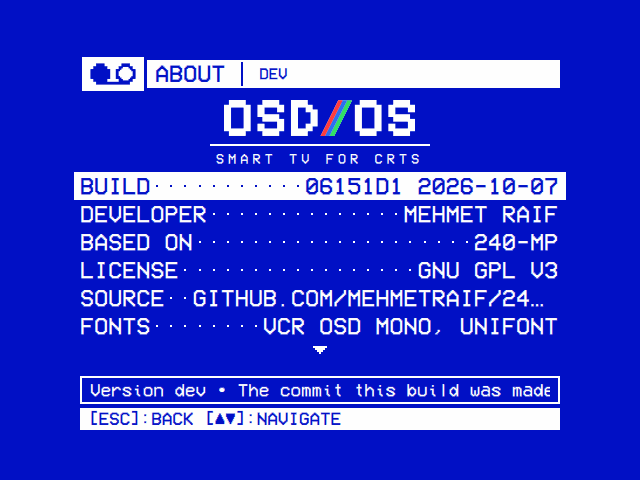
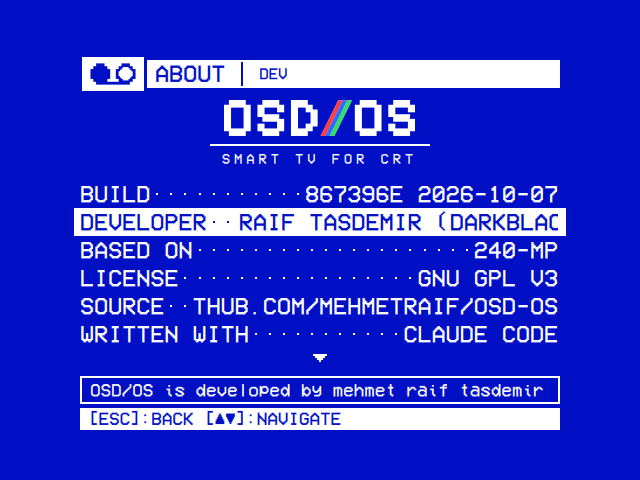
feat: About credits everyone OSD/OS is made with, and its long lines scroll
The owner asked to give everyone their due: the developer's name as the
owner writes it, mehmet raif tasdemir (darkBLACK), that OSD/OS's code is written
with Claude Code and its logo with ChatGPT, and lines that don't fit to
scroll.

- About: Developer is mehmet raif tasdemir (darkBLACK), in the licence's
  notice too. New lines: Written With (Claude Code, as much of 240-MP's
  code was), Artwork (the logo, the channel logo and the boot screen's
  cassette, made with ChatGPT), Image OS (Raspberry Pi OS Lite, based on
  Debian 13 trixie, built with pi-gen, with the trademark notices) and
  Data (TMDB with the notice its terms ask for, Open-Meteo with the credit
  its CC BY 4.0 licence asks for, Wikidata).
- MenuRow's alwaysScroll: a value too long for its line scrolls through
  all the time, not only while selected; About's lines use it. The scroll
  now starts once the line is laid out, so a line that scrolls from the
  start does (it kept a distance of 0 before).
- About's lines sit a little lower, so the ▲ over them clears the tagline.
- README: the credits name the developer, Claude Code, ChatGPT, 240-MP
  (quoting Anthony's own words), the data sources with their
  notices, the software OSD/OS stands on, Raspberry Pi and Debian; the
  copyright line names the developer. The logo SVGs and the cassette say
  they were made with ChatGPT. The About screenshot is retaken.

Claude-Session: https://claude.ai/code/session_01BPj7F5bUAW2FbHbUrDiQbs

Changed region(s): [[0.0938, 0.3125, 0.9062, 0.75], [0.125, 0.7812, 0.6562, 0.8438], [0.6875, 0.7812, 0.875, 0.8438]]

diff --git a/views/About.qml b/views/About.qml
@@ -19,7 +19,7 @@ FocusScope {
     property var navListState: ({})
 
     // Who makes OSD/OS, and whose work it carries on.
-    readonly property string developer: "Mehmet Raif"
+    readonly property string developer: "mehmet raif tasdemir (darkBLACK)"
     readonly property string developerUrl: "github.com/mehmetraif"
     readonly property string sourceUrl: "github.com/mehmetraif/OSD-OS"
     readonly property string upstreamAuthor: "Anthony Caccese"
@@ -40,12 +40,28 @@ FocusScope {
                        + " • It comes with no warranty • " + root.hints.select + " The notice and the license's text" },
         { key: "source", label: "Source", value: aboutRoot.sourceUrl,
           description: "The source code, the releases and the issues • Changes are welcome: see CONTRIBUTING.md there" },
+        { key: "code", label: "Written With", value: "Claude Code",
+          description: "OSD/OS's changes to 240-MP were written with Claude Code, Anthropic's coding agent,"
+                       + " as a large part of 240-MP's own code was" },
+        { key: "artwork", label: "Artwork", value: "ChatGPT",
+          description: "The OSD/OS logo, the channel logo over the picture and the boot screen's cassette"
+                       + " were made with ChatGPT, OpenAI's assistant" },
         { key: "fonts", label: "Fonts", value: "VCR OSD Mono, Unifont",
           description: "VCR OSD Mono by Riciery Santos Leal (mrmanet), free from dafont.com"
                        + " • GNU Unifont by Roman Czyborra, Paul Hardy and others, under the SIL Open Font License 1.1" },
         { key: "built", label: "Built With", value: "Qt, SDL2, mpv",
           description: "Qt 6 (LGPL v3) • SDL2 (zlib) • mpv and libmpv (GPL v2+)"
-                       + " • On the OSD/OS image: yt-dlp (Unlicense), Deno (MIT), FFmpeg (LGPL/GPL), Chromium (BSD), Raspberry Pi OS" }
+                       + " • On the OSD/OS image: yt-dlp (Unlicense), Deno (MIT), FFmpeg (LGPL/GPL), Chromium (BSD)" },
+        { key: "system", label: "Image OS", value: "Raspberry Pi OS",
+          description: "The OSD/OS image is Raspberry Pi OS Lite (64-bit), which is based on Debian 13 (trixie),"
+                       + " built with Raspberry Pi's pi-gen, and OSD/OS on top • Each package keeps its own license:"
+                       + " /usr/share/doc on the image, and /usr/share/doc/osdos/NOTICE for the rest"
+                       + " • Raspberry Pi is a trademark of Raspberry Pi Ltd, and Debian a registered trademark of"
+                       + " Software in the Public Interest, Inc.; OSD/OS is not affiliated with or endorsed by either" },
+        { key: "data", label: "Data", value: "TMDB, Open-Meteo",
+          description: "This product uses the TMDB API but is not endorsed or certified by TMDB: the Netflix and"
+                       + " Prime Video catalogues, with JustWatch's listings through it • Weather data by"
+                       + " Open-Meteo.com, under CC BY 4.0 • Titles' pages on the services from Wikidata" }
     ]
 
     // The notice at the head of the licence page: the GPL's own, for this
@@ -124,8 +140,9 @@ FocusScope {
         model: aboutRoot.rows
         visible: !licensePage.visible
         focus: !licensePage.visible
-        // Under the wordmark: six lines, the rest on ▼.
-        anchors.topMargin: root.sh * 0.3583333 //172
+        // Under the wordmark: six lines, the rest on ▼, and room above them
+        // for the ▲ clear of the tagline.
+        anchors.topMargin: root.sh * 0.375 //180
         height: root.sh * 0.35 //168
 
         delegate: MenuRow {
@@ -134,6 +151,9 @@ FocusScope {
             label: modelData.label
             value: modelData.value
             selected: list.currentIndex === index
+            // Read rather than chosen: a value too long for its line (the
+            // developer, the source) scrolls through, selected or not.
+            alwaysScroll: true
         }
 
         Keys.onReturnPressed: {

diff --git a/views/Components/MenuRow.qml b/views/Components/MenuRow.qml
@@ -20,6 +20,10 @@ Item {
     // where its download is): the label is cut short with "…" instead, two
     // dots before the value, so the value always shows whole.
     property bool keepValue: false
+    // A line whose value, when it is too long for the line, scrolls through
+    // all the time rather than only while the line is selected: lines that
+    // are read rather than chosen (About's).
+    property bool alwaysScroll: false
     property real fontSize: root.sh * 0.05 //24
 
     readonly property color ink: selected ? root.surfaceColor : root.primaryColor
@@ -98,7 +102,8 @@ Item {
     }
 
     // The value: cut short with "…" when it is too long for the line, and
-    // scrolled through instead while the line is selected.
+    // scrolled through instead while the line is selected (or always, with
+    // alwaysScroll).
     Item {
         id: valueClip
         visible: menuRow.value !== ""
@@ -110,7 +115,8 @@ Item {
         Text {
             id: valueText
             anchors.verticalCenter: parent.verticalCenter
-            width: menuRow.selected ? implicitWidth : Math.min(implicitWidth, valueClip.width)
+            width: menuRow.selected || menuRow.alwaysScroll ? implicitWidth
+                                                            : Math.min(implicitWidth, valueClip.width)
             text: menuRow.value
             color: menuRow.ink
             elide: Text.ElideRight
@@ -119,8 +125,25 @@ Item {
             font.pixelSize: menuRow.fontSize
         }
 
+        // Whether the value scrolls, and how far. The animation keeps the
+        // distance it started with, so it is started (and started over) once
+        // the line's layout has settled, a turn of the event loop later: one
+        // started in the middle of it, as a line that scrolls from the start
+        // is, would keep a stale distance for good.
+        readonly property bool scrolls: (menuRow.selected || menuRow.alwaysScroll)
+                                        && valueText.implicitWidth > valueClip.width
+        readonly property real scrollBy: valueClip.width - valueText.implicitWidth
+        onScrollsChanged: Qt.callLater(updateScroll)
+        onScrollByChanged: Qt.callLater(updateScroll)
+        function updateScroll() {
+            if (scrolls)
+                scroll.restart()
+            else
+                scroll.stop()
+        }
+
         SequentialAnimation {
-            running: menuRow.selected && valueText.implicitWidth > valueClip.width
+            id: scroll
             loops: Animation.Infinite
             onRunningChanged: if (!running) valueText.x = 0
 
@@ -128,7 +151,7 @@ Item {
             NumberAnimation {
                 target: valueText
                 property: "x"
-                to: valueClip.width - valueText.implicitWidth
+                to: valueClip.scrollBy
                 duration: Math.abs(to) * 20
             }
             PauseAnimation { duration: 2000 }

diff --git a/views/Components/VhsCassette.qml b/views/Components/VhsCassette.qml
@@ -1,7 +1,7 @@
 import QtQuick
 
-// The VHS cassette on the boot screen, the owner's drawing itself
-// (assets/images/cassette.png: white where the drawing is ink, with its own
+// The VHS cassette on the boot screen, the owner's drawing itself, made with
+// ChatGPT (assets/images/cassette.png: white where the drawing is ink, with its own
 // edges) in the theme's text colour, the slash on its label in its three
 // colours. As `progress` goes from 0 to 1 the tape winds off the left
 // (supply) reel onto the right (take-up) one: each window shows its reel's

diff --git a/ARCHITECTURE.md b/ARCHITECTURE.md
@@ -440,7 +440,7 @@ Settings → **Bluetooth** (`views/Bluetooth.qml`) pairs a Bluetooth keyboard, g
 
 ## About (views/About.qml)
 
-Settings → **About** opens on the wordmark, as the logo has it: `assets/images/logo-wordmark.svg` drawn through `OsdIconProvider` in the scheme's colour, with `logo-slash.svg` (the slash alone, in the same frame) over it in its own three colours, and SMART TV FOR CRT under a rule in the deck's own letters, so a CRT reads it. Under it, what OSD/OS is made of, who makes it and under which licence, as menu lines (`MenuList`) whose `HelpLine` carries each one's detail: the build (`appCore.appBuild`, CMake's `APP_BUILD`: the commit the tree was configured from and the day; the version is in the title bar), the developer, 240-MP that it is a modified version of, the licence, the source, the fonts and the libraries with their licences. Its help line is set `always`, so it stays when Settings' Help Line is off: these lines are the page.
+Settings → **About** opens on the wordmark, as the logo has it: `assets/images/logo-wordmark.svg` drawn through `OsdIconProvider` in the scheme's colour, with `logo-slash.svg` (the slash alone, in the same frame) over it in its own three colours, and SMART TV FOR CRT under a rule in the deck's own letters, so a CRT reads it. Under it, what OSD/OS is made of, who makes it and under which licence, as menu lines (`MenuList`) whose `HelpLine` carries each one's detail: the build (`appCore.appBuild`, CMake's `APP_BUILD`: the commit the tree was configured from and the day; the version is in the title bar), the developer, 240-MP that it is a modified version of, the licence, the source, what its code was written with (Claude Code) and its artwork made with (ChatGPT), the fonts, the libraries with their licences, the system the image is built on (Raspberry Pi OS Lite on Debian, with the trademark notices) and the data the modules draw on (TMDB with the notice its terms ask for, Open-Meteo with the credit its licence asks for, Wikidata). Its help line is set `always`, so it stays when Settings' Help Line is off: these lines are the page.
 
 Behind the LICENSE line is the licence itself, below the title bar in place of the lines: the notice the GNU GPL asks an interactive program to show (whose copyright it is, that it comes with no warranty, that it may be passed on under the licence, and where the licence is), then the licence's text, a page at a time with ▲ ▼. The text is `LICENSE` next to the app, which CMake installs with `Main.qml` into every build (the GPL asks that every copy carry it), read through `appCore.licenseText()`, which puts each paragraph on one line for the view to wrap. The developer's name and the year are properties at the top of the view.
 
@@ -691,7 +691,7 @@ Pixel-drawn pieces of a deck's on-screen menu, built on `root.px` (one pixel of 
 | Component | What it draws |
 |---|---|
 | `HintBar` | The footer hint line on a solid bar. It is a `Text`, so a view sets `text` and anchors exactly as on one. It owns its font size, steps it down only as far as a long hint needs to fit the safe width. Every view's footer and every dialog's hint line uses it, always in the same place: anchored to the bottom, `bottomMargin: root.sh * 0.1041667`, `leftMargin: root.sw * 0.125`, never under a dialog's last line (a `PromptScreen` does this for a dialog). Settings → **Hint Bar** (`app.hint_bar`, `"On"` when unset, or `"Off"`; `root.hintBar`) hides every one at once, by the bar's `opacity`, so a view's own `visible` binding holds and the window keeps its shape. |
-| `MenuRow` | A settings line the way a camcorder's menu lays one out, `DISPLAY······ON`: `label`, a dot per character cell, then `value` against the line's right end (none for a submenu), with `selected` as a solid bar. With `heading` it heads a group instead: the label and a rule to the line's end (`MODULES ─────`). A value too long for the line is cut short; with `keepValue` the label is instead, two dots before a value that always shows whole (a playlist's videos, `TEEN TITANS GO!… ··READY`). Settings, every module's settings, Controls and the Playlists module use it. |
+| `MenuRow` | A settings line the way a camcorder's menu lays one out, `DISPLAY······ON`: `label`, a dot per character cell, then `value` against the line's right end (none for a submenu), with `selected` as a solid bar. With `heading` it heads a group instead: the label and a rule to the line's end (`MODULES ─────`). A value too long for the line is cut short, and scrolls through while the line is selected (with `alwaysScroll`, all the time: About's lines, which are read rather than chosen); with `keepValue` the label is cut instead, two dots before a value that always shows whole (a playlist's videos, `TEEN TITANS GO!… ··READY`). Settings, every module's settings, Controls and the Playlists module use it. |
 | `ScrollMarks` | The ▲ above a list while lines are hidden above it and the ▼ below while lines are hidden below. Laid over a list (`anchors.fill` and `list`); the main menu and the settings menus use it. |
 | `MenuList` | A view's menu of `MenuRow`s in the place every view's list has (under the title bar, one row short of the help line), with `ScrollMarks` and a cursor (`step(delta)`, Up and Down) that steps over section headings (rows whose `type` is `"section"`), round the ends. The host gives it `model` (a list) and `delegate`, and keys it; `currentIndex`, `count` and `contentY` are the list's. The Playlists module's pages use it. |
 | `HelpLine` | The help line under a settings menu: the focused line's description in an outlined box, on one line. A description too long for the box scrolls through it like a ticker; one written as several lines reads as one, joined with `•`. Settings → **Help Line** (`app.help_line`, `"On"` when unset, or `"Off"`; `root.helpLine`) hides every one at once, by its `opacity`, so a host's own `visible` binding holds and its menu keeps its shape; one whose lines are the page itself sets `always` (About's). |

diff --git a/README.md b/README.md
@@ -400,19 +400,25 @@ Once signed in, each opens on the server's Continue Watching and its libraries. 
 
 ## Credits & Acknowledgments
 
-- OSD/OS is a modified version of [240-MP](https://github.com/anthonycaccese/240-MP) by Anthony Caccese and its contributors. Settings → About lists these credits on the device.
+Settings → About lists these credits on the device.
+
+- OSD/OS is developed by mehmet raif tasdemir (darkBLACK), [github.com/mehmetraif](https://github.com/mehmetraif).
+- It is a modified version of [240-MP](https://github.com/anthonycaccese/240-MP) by Anthony Caccese and its contributors: the app it all started from.
+- OSD/OS's changes to 240-MP were written with [Claude Code](https://www.anthropic.com/claude-code), Anthropic's coding agent.
+- The OSD/OS logo, the channel logo over the picture and the boot screen's cassette were made with [ChatGPT](https://chatgpt.com), OpenAI's assistant.
+- 240-MP was made the same way. In Anthony's words, from its README: "Because this is a hobby project (and a fairly niche use case), I am using [Claude Code](https://www.anthropic.com/product/claude-code) to build a large part of the backend C++ code and structure the modules. If you have concerns with that, I am glad to talk through it. Also, please feel free to fork this repo, update any aspects and tailor things to your own use case; that's why the source is fully open and available."
 - The `VCR OSD Mono` font was created by Riciery Santos Leal (a.k.a. mrmanet) https://www.dafont.com/vcr-osd-mono.font
 - The `Unifont` font (used as a fallback for characters that VCR OSD Mono does not cover) is GNU Unifont by Roman Czyborra, Paul Hardy, et al., licensed under the SIL Open Font License v1.1. https://unifoundry.com/unifont/ — license text: [assets/fonts/LICENSE-unifont.txt](assets/fonts/LICENSE-unifont.txt)
-- Because this is a hobby project (and a fairly niche use case), I am using [Claude Code](https://www.anthropic.com/product/claude-code) to build a large part of the backend C++ code and structure the modules.  If you have concerns with that, I am glad to talk through it.  Also, please feel free to fork this repo, update any aspects and tailor things to your own use case; that's why the source is fully open and available.
-- Thank you to Plex, Jellyfin, Emby and Open-Meteo for providing open and free apis to enable building modules for each.
-- Thank you to [the MPV team](https://mpv.io/) for a simple, extensible and cross platform media player
-- And thank you to the [Raspberry Pi Foundation](https://www.raspberrypi.org/) for helping me fill a drawer with SBCs to tinker with and inspire fun ideas like this project ❤
+- Thank you to Plex, Jellyfin, Emby and Open-Meteo for providing open and free apis to enable building modules for each, and to [TMDB](https://www.themoviedb.org), [JustWatch](https://www.justwatch.com) and [Wikidata](https://www.wikidata.org) for the catalogues behind Netflix and Prime Video. This product uses the TMDB API but is not endorsed or certified by TMDB. Weather data by [Open-Meteo.com](https://open-meteo.com), under [CC BY 4.0](https://creativecommons.org/licenses/by/4.0/).
+- Thank you to [the MPV team](https://mpv.io/) for a simple, extensible and cross platform media player, and to [Qt](https://www.qt.io), [SDL](https://www.libsdl.org), [FFmpeg](https://ffmpeg.org), [yt-dlp](https://github.com/yt-dlp/yt-dlp), [Deno](https://deno.com) and [Chromium](https://www.chromium.org), which OSD/OS stands on.
+- Thank you to [Raspberry Pi](https://www.raspberrypi.com) for the boards, and for Raspberry Pi OS and [pi-gen](https://github.com/RPi-Distro/pi-gen), which the OSD/OS image is built with, and to [Debian](https://www.debian.org), which Raspberry Pi OS is based on. What the image carries, under which licences, is in [os/NOTICE](os/NOTICE).
+- And from 240-MP's README, Anthony's thanks to the [Raspberry Pi Foundation](https://www.raspberrypi.org/) "for helping me fill a drawer with SBCs to tinker with and inspire fun ideas like this project ❤"
 
 ## License
 
 OSD/OS is free software under the GNU General Public License v3.0. See [LICENSE](LICENSE) for the full text; every build carries it next to the app, and Settings → About → License shows it on the device, with the notice.
 
-OSD/OS is a modified version of [240-MP](https://github.com/anthonycaccese/240-MP), Copyright (C) 2026 Anthony Caccese and the 240-MP contributors. The modifications, from 2026 on, are Copyright (C) 2026 Mehmet Raif. The whole stays under GPL-3.0.
+OSD/OS is a modified version of [240-MP](https://github.com/anthonycaccese/240-MP), Copyright (C) 2026 Anthony Caccese and the 240-MP contributors. The modifications, from 2026 on, are Copyright (C) 2026 mehmet raif tasdemir (darkBLACK). The whole stays under GPL-3.0.
 
 You are free to use, study, and modify this code. If you distribute a modified version, you must also distribute it under GPL-3.0 and make the source available.
 

diff --git a/os/README.md b/os/README.md
@@ -10,7 +10,7 @@ Compared with flashing Raspberry Pi OS Lite and running `scripts/install.sh` ([I
 
 - **The app comes first.** `osdos.service` starts as soon as the display driver is up (after `basic.target`), not after every other service (`multi-user.target`).
 - **The rest waits for it.** Wi-Fi (NetworkManager), Bluetooth, mDNS (`avahi-daemon`) and, if enabled, SSH hold back until the app has drawn its first frame. Then they start one after another, in that order.
-- **The boot screen.** While those services start, the app shows a pixel-art VHS cassette, the owner's drawing with OSD/OS on its label (`assets/images/cassette.png`, drawn by `views/Components/VhsCassette.qml`): its reels turn, and the tape winds off the left reel onto the right one as the progress bar fills, plus a line per service (`[ OK ] WI-FI`, …). It ends with a check that the network is actually online. The startup module opens once it is done, so modules that need the network find it ready. Keys do nothing while it is up.
+- **The boot screen.** While those services start, the app shows a pixel-art VHS cassette, the owner's drawing (made with ChatGPT) with OSD/OS on its label (`assets/images/cassette.png`, drawn by `views/Components/VhsCassette.qml`): its reels turn, and the tape winds off the left reel onto the right one as the progress bar fills, plus a line per service (`[ OK ] WI-FI`, …). It ends with a check that the network is actually online. The startup module opens once it is done, so modules that need the network find it ready. Keys do nothing while it is up.
 - **A quiet boot.** There is no rainbow splash, no one-second firmware delay (`boot_delay=0`), no kernel text, logo or cursor on `tty1`, and no login prompt on `tty1`.
 - **Less running.** The image has:
   - no apt, man-db, e2scrub or dpkg-backup timers (they wake the SD card at random times, mid-movie included);
